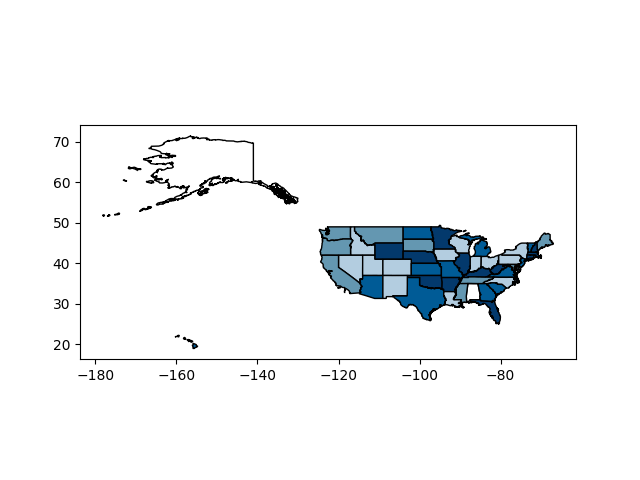
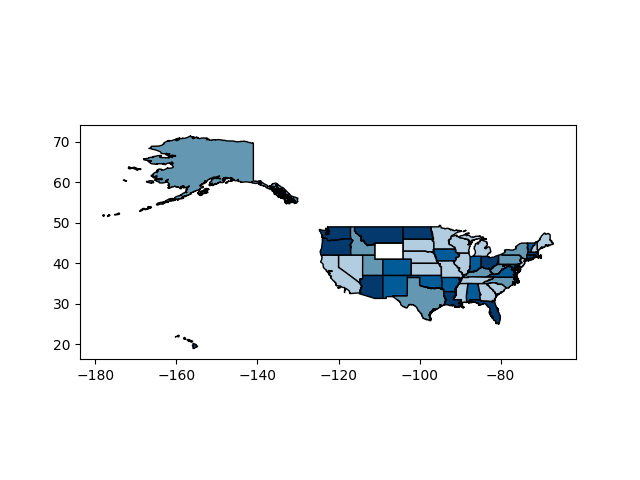
fixed list of list issue with Tim

Changed region(s): [[0.5, 0.4688, 0.875, 0.6562], [0.2188, 0.2812, 0.4062, 0.4062]]

diff --git a/mapper.py b/mapper.py
@@ -52,7 +52,7 @@ class Shapefile:
 
     def add_data(self, dict_data = [test_dict], col_name = ["column"]):
         self.cols = col_name
-        return join_dict_data(dict_data, self.gdf, col_name)
+        #return join_dict_data(dict_data, self.gdf, col_name)
         self.gdf = join_dict_data(dict_data, self.gdf, col_name)
 
 
@@ -140,6 +140,7 @@ def get_color_bins(geoframe, col = 'count'):
             list_none.append(row[1]['STATE_ABBR'])
 
     assert len(list_key) == len(list_val)
+    print(list_val)
     list_val = pd.qcut(list_val, q = 4, labels = [1,2,3,4])
 
     print(list_key)
@@ -159,7 +160,8 @@ def get_color_bins(geoframe, col = 'count'):
 def join_dict_data(state_dicts, geoframe, cols = ['count']):
 
     #assert type(state_dict) == dict or (type(state_dict)== list and type(state_dict[0])==dict)
-    list_of_lists = [[]] * len(cols)
+    #list_of_lists = [[]] * len(cols)
+    list_of_lists = [[] for _ in range(len(cols))]
     other_count = 0
     for i, state_dict in enumerate(state_dicts):
         counter = 0
@@ -175,12 +177,13 @@ def join_dict_data(state_dicts, geoframe, cols = ['count']):
                 #print("added none")
                 list_of_lists[i].append(None)
                 counter = counter + 1
-        print("counter: " + str(counter))
+        # print("counter: " + str(counter) + " , i: " + str(i))
+        # print(list_of_lists[i])
         other_count += 1
-    print("other: " + str(other_count))
-
-    print(list_of_lists)
-    return list_of_lists
+    # print("other: " + str(other_count))
+    # print(len(list_of_lists[0]))
+    # print(list_of_lists)
+    # return list_of_lists
     for i, col in enumerate(cols):
         print(i, col)
         #print(len(geoframe[col]))
